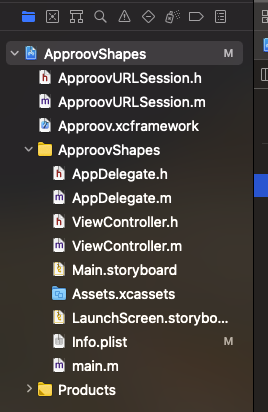
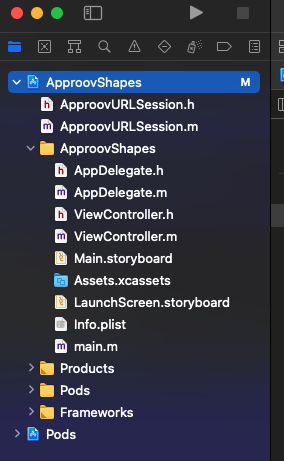
Updade README and images with cocoapod instructions

diff --git a/README.md b/README.md
@@ -8,6 +8,8 @@ This quickstart is written specifically for native iOS apps that are written in 
 * [Xcode](https://developer.apple.com/xcode/) version 12 installed (version 12.3 is used in this guide)
 * The contents of the folder containing this README
 * An Apple mobile device with iOS 10 or higher
+* MacOS 11+
+* Cocoapods [installed](https://cocoapods.org)
 
 ## WHAT YOU WILL LEARN
 * How to integrate Approov into a real app in a step by step fashion
@@ -45,20 +47,21 @@ This contacts `https://shapes.approov.io/v2/shapes` to get the name of a random 
 
 ## ADD THE APPROOV SDK
 
-Get the latest Approov SDK (if you are using Windows then substitute `approov` with `approov.exe` in all cases in this quickstart)
+Get the latest Approov SDK by using `CocoaPods`. The `Podfile` configuration file is located in the `shapes-app/ApproovShapes` directory and should contain a reference to the latest version of the Approov SDK available for iOS. Install the depndency by executing:
+
 ```
-$ approov sdk -getLibrary Approov.xcframework
-iOS SDK library 2.6.0(5851) written to Approov.xcframework
+$pod install
+Analyzing dependencies
+Downloading dependencies
+Installing approov-ios-sdk (2.6.1)
+Generating Pods project
+Integrating client project
+
+[!] Please close any current Xcode sessions and use `ApproovShapes.xcworkspace` for this project from now on.
+Pod installation complete! There is 1 dependency from the Podfile and 1 total pod installed.
 ```
-In Xcode select `File` and then `Add Files to "ApproovShapes"...` and select the Approov.xcframework folder:
 
-![Add Files to ApproovShapes](readme-images/add-files-to-approovshapes.png)
-
-Make sure the `Copy items if needed` option and the target `ApproovShapes` are selected. Once the Approov framework appears in the project structure we have to ensure it is signed and embedded in the ApproovShapes binary. To do so, select the target `ApproovShapes` and in the `General` tab scroll to the `Frameworks, Libraries and Embedded Content` section where the `Approov.xcframework` entry must have `Embed & Sign` selected in the `Embed` column:
-
-![Embed & Sign](readme-images/embed-and-sign.png)
-
-The Approov SDK is now included as a dependency in your project.
+The Approov SDK is now included as a dependency in your project. Please observe `pod install` command output notice regarding the `ApproovShapes.xcworkspace` as it is the correct way to modify the project from this point on.
 
 ## ADD THE APPROOV FRAMEWORK CODE
 
